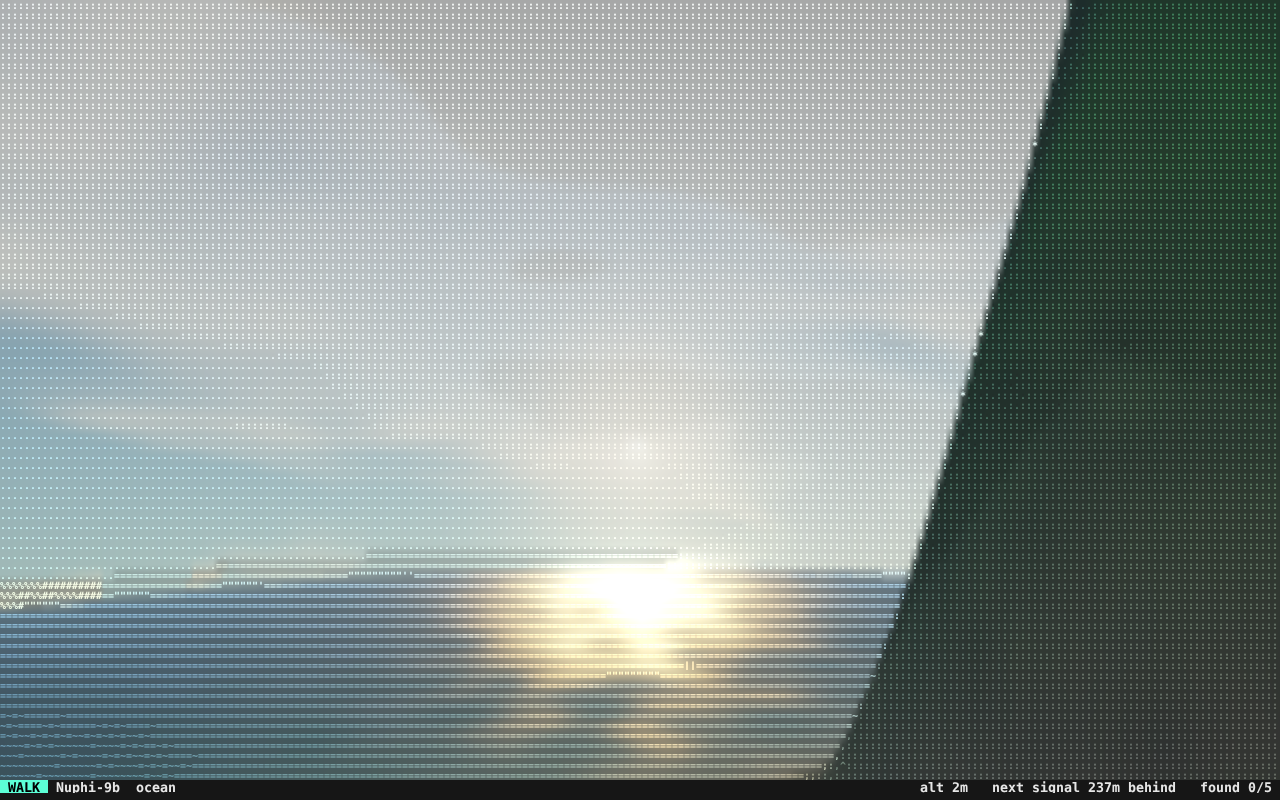
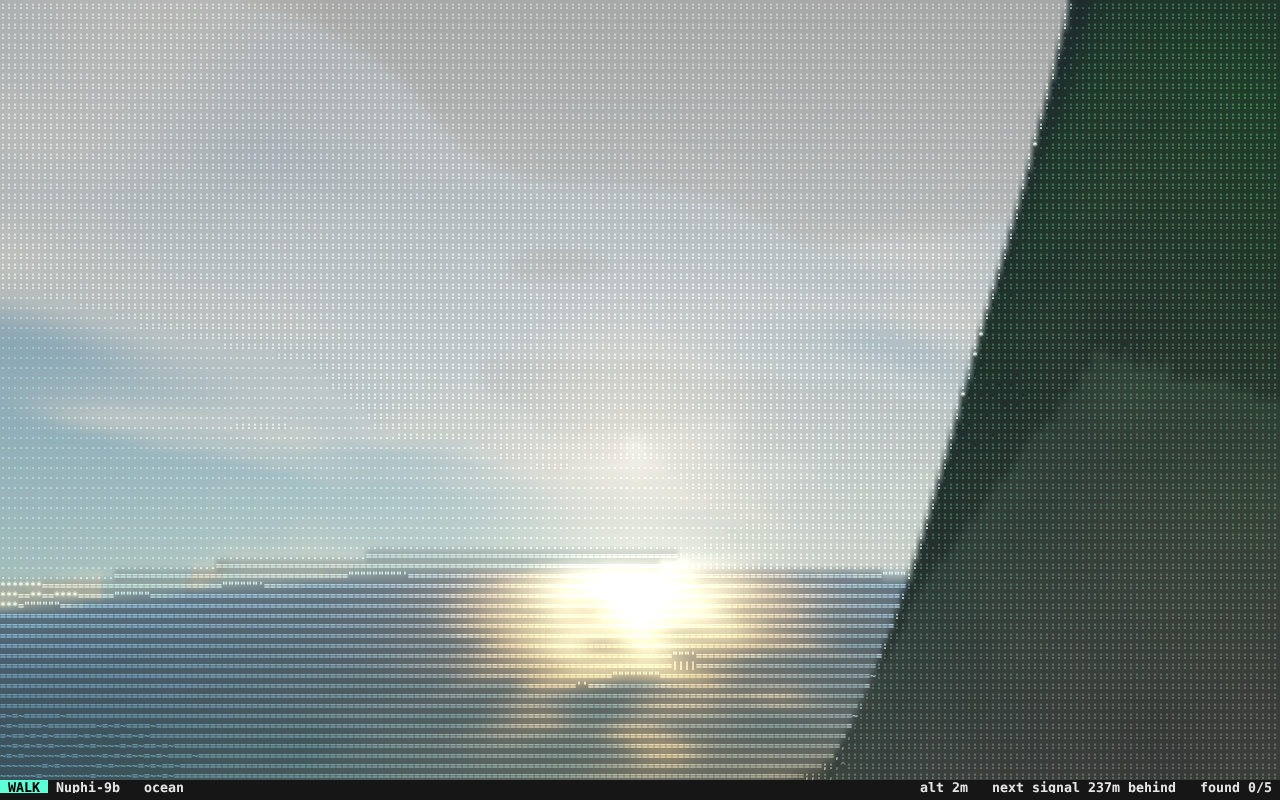
Calmer picture: faint sky grain, lighter ground, no black holes at night
- sky and cloud characters are drawn barely brighter than the colour
  behind them, so they read as a fine grain instead of a dot pattern
- bright ground no longer fills with % and #: grass, dry ground, rock and
  snow stop at lighter characters and the background carries the light
- open space at night has a background again (its darkest sample, so
  stars stay sharp); gaps in the clouds were turning into black slabs
- lava glows orange instead of clipping to white
- a half-step of noise on the final colour hides 8-bit banding

diff --git a/index.html b/index.html
@@ -117,10 +117,10 @@ const RAMPS = [
   ' .:~',         // cloud
   ' .-~=',        // water
   ' .,:;=',       // sand
-  ' .,;"*%',      // grass
-  ' .,:;=+%',     // dry ground
-  ' .:^=%#',      // rock
-  ' .:+*#',       // snow
+  ' .,;"*',       // grass
+  ' .,:;=+',      // dry ground
+  ' .:^=',        // rock
+  ' .:+*',        // snow
   ' .:+*%&#',     // tree
   ' .:~=*%#@',    // lava
   ' .:-=+',       // ice
@@ -129,7 +129,10 @@ const RAMPS = [
 ];
 // how much of the surface colour fills the cell behind the character. high values read as
 // solid shapes with a light texture, low values as loose characters on black
-const BACKING = [0, .9, .9, .75, .7, .7, .7, .65, .75, .6, .5, .75, .5, .6];
+const BACKING = [.9, .92, .9, .75, .7, .8, .8, .75, .85, .6, .5, .75, .5, .6];
+// how much brighter than the scene the characters are drawn on a flat surface. low on sky and
+// cloud, so their dots read as a fine grain over the colour rather than a pattern of their own
+const GAIN = [1.45, 1.12, 1.15, 1.45, 1.45, 1.45, 1.45, 1.45, 1.45, 1.45, 1.45, 1.45, 1.45, 1.45];
 
 // heights are metres, colour stops run from the shore (0) to the highest peak (1),
 // tau is how much red/green/blue light the air scatters straight overhead,
@@ -594,7 +597,7 @@ vec3 surface(vec3 ro, vec3 rd, float t) {
   if (uSea.a > 1.5) {
     float crust = smoothstep(.38, .6, n3(p * .22 + vec3(0., uTime * .02, 0.)) * .6 + n3(p * .9) * .4);
     glow = 1. - crust;
-    return mix(vec3(4., .7, .06), vec3(.03, .015, .012) * light, crust);
+    return mix(vec3(2.2, .38, .035), vec3(.03, .015, .012) * light, crust);
   }
   vec3 wc = mix(uShallow, uSea.rgb, 1. - exp(h * .3));
   wc = mix(alb, wc, 1. - exp(h * 1.4));
@@ -736,7 +739,7 @@ uniform sampler2D uScene, uInfo, uShapes, uRamps, uAllow;
 uniform vec2 uGrid;
 uniform int uCount;
 uniform float uInk;
-uniform float uBack[${RAMPS.length}];
+uniform float uBack[${RAMPS.length}], uGain[${RAMPS.length}];
 layout(location = 0) out vec4 o0;
 layout(location = 1) out vec4 o1;
 layout(location = 2) out vec4 o2;
@@ -791,11 +794,11 @@ void main() {
   fg /= w;
   // ink covers a fraction of the cell, so it is drawn brighter than the scene: a little inside
   // a surface, where it is only texture, and a lot along an edge, where it is the outline
-  fg = max(mix(vec3(dot(fg, vec3(.299, .587, .114))), fg, 1.2), 0.) * mix(1.45, 2., edge);
+  fg = max(mix(vec3(dot(fg, vec3(.299, .587, .114))), fg, 1.2), 0.) * mix(uGain[m], 2., edge);
   fg /= max(1., max(fg.r, max(fg.g, fg.b)));
 
   o0 = vec4(fg, float(glyph) / 255.);
-  o1 = vec4(avg * uBack[m], 1.);
+  o1 = vec4((m == ${VOID} ? dark : avg) * uBack[m], 1.);
   o2 = vec4(avg * em, 1.);
 }`;
 
@@ -830,6 +833,8 @@ void main() {
   // the colour behind the characters is blended between cell centres, so it has no steps
   vec3 col = mix(texture(uC1, uv).rgb, a.rgb, ink(uAtlas, int(a.a * 255. + .5), f));
   col += textureLod(uGlow, uv, 1.).rgb * .45 + textureLod(uGlow, uv, 2.5).rgb * .35 + textureLod(uGlow, uv, 4.).rgb * .25;
+  // half a step of noise breaks up the banding a smooth 8-bit gradient would show
+  col += (fract(52.9829189 * fract(dot(gl_FragCoord.xy, vec2(.06711056, .00583715)))) - .5) / 255.;
   o = vec4(col, 1.);
 }`;
 
@@ -1337,6 +1342,7 @@ function drawScene() {
   gl.uniform1i(u.uCount, GLYPHS.length);
   gl.uniform1f(u.uInk, view.ink);
   gl.uniform1fv(u.uBack, BACKING);
+  gl.uniform1fv(u.uGain, GAIN);
   gl.drawArrays(gl.TRIANGLES, 0, 3);
   gl.activeTexture(gl.TEXTURE8);
   gl.generateMipmap(gl.TEXTURE_2D);

diff --git a/README.md b/README.md
@@ -40,28 +40,28 @@ A few worth visiting: `home`, `dust`, `amber`, `glacier`, `kelp`, `reef`.
        `                                                   `
 
                `            `                                               ````
-                           `*.```                               ``...::::;;;;;;;
+             `             `*.```                               ``...::::;;;;;;;
                            `.+,``     ````               `..:::;;;;;;;;;;;;;;;;;
                `          ```.`'`.::::^^^^=|:.`    `..::;;;;;;;;:^''''''.':;;;'`
  `                          ``.::::^==^+++==^^^;::;;;;;;:^''',:::;;;;;;;;.:''`
                            `.:^;^^^^^^++=+========;:'',::;;;;;;;;;;;;;;','
-    `  `                   .^:::^^^=^===============;;;:^^'``` ` .;;:'.
+    `  `                   .^:::^^^=================;;;:^^'``` ` .;;:'.
                           `::,:^;===;===+==;;;====;+;:         .|^'`         `
-`                        .:;;;;;===+^====;;==++==^^++;:     ..'``
-  `   `              `.:;;;=;;;;;;;;;;===^+=+++==^=++^;`` ```
+`                        .:;;;;;===+^====;;==++==^^++;:     ..'``       ``
+  `   .              `.:;;;=;;;;==;;;;===^+=+++==^=++^;`` ```
                  .::;;;;;;=;;;;;==;++++=+++++++==^^+++^`
              .::;;;;:''::;;;;;^++++++++=++++^++==++^++^|
          `.:;;;;:''|:;;;;;^^^;;+;++;+^^^+++++++=+;;::^+=`
-      .:;;;;;'',:;;;;:',,:||^;^^;^^^^^:^++++++++++;;^+^=`
-  `.:;;;;''':;;;;^'''"""'^^^^:;+^:::^+::^=+=++=+++;^+++;``````
+      .:;;;;;'',:;;;;:',,:||^;^^;^^^^^^^++++++++++;;^+^=`
+  `.:;;;;''':;;;;^'''"""'^^=^;;+^:::^+::^=+=++=+++;^+++;``````
 .:;;;;:'':;;;;^`    `````:,^^^:^=^^;;:^::=======^++;+++^!|,,.`
-;;;;'.:;;;;;;.   ``.  -``.::^^:^==^^^;::^^^=====;;;+^^'```'""^.`
-;;;: ';;;;:;;:'''``       .,;^^:=++;^;:,+^^=====+;;+^: ` ````             `
+;;;;'.:;;;;;;.   ``.  -``.:^^^:^==^^^;::^^^=====;;;+^^'```'""^.`
+;;;: ';;;;:;;:'''``       .,;^^^=++;^;::+^^=====+;;+^. ` ````             `
 ;;;::--.`.``               .,^^:++^;;:^;^^===^^=+^=^'
-                            `;:::;;++;;;++^^^^^===^`
+                            ';;::;;++;;;++^^^^^===^`
               `               .';;;:^^+^++^^=^^=''                     `
-             `                  ``':':^^^^^++:'`         `              `
-              `                       ``````                    `
+             `                  `.':':^^^^^++:'`         `              `
+                                      ``````
 
 
                       `                              `
@@ -86,7 +86,7 @@ Drawing is three passes on the GPU.
    (4x6 while the machine keeps up). Sunlight, shadows, sea, clouds, rings and the atmosphere are
    all in this one shader.
 2. One pixel per cell: choose the character. A flat cell takes one from its material's own set
-   by brightness, so water is `-~=`, rock is `^=%#`, trees are `+*%&#`. Where a cell has an edge
+   by brightness, so water is `-~=`, rock is `^=`, trees are `+*%&#`. Where a cell has an edge
    in it, a line character (`_ / \ ( ) ' "`) can stand in, but only if its shape fits: every
    glyph is measured once for how much ink falls in each of six regions of its cell, and that is
    compared with the cell's six samples. There are no letters or digits in the picture.
